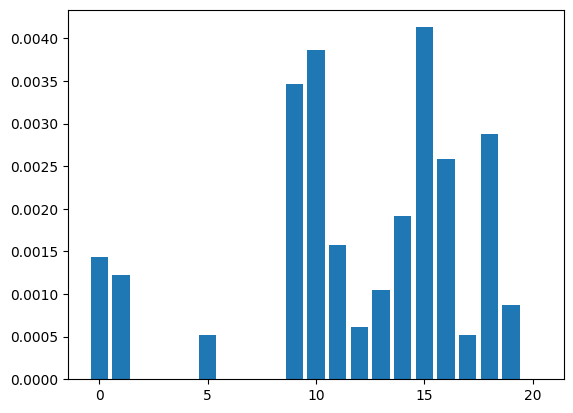
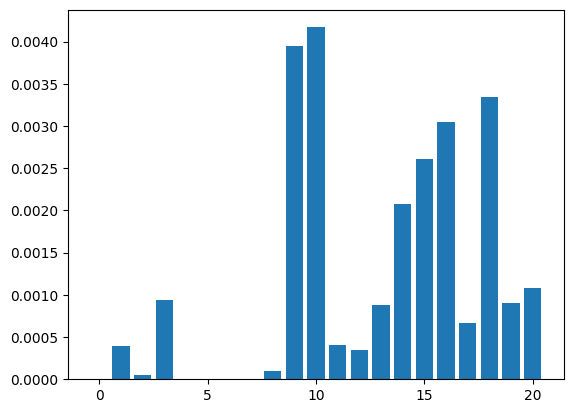
changed to small set

diff --git a/process-ultimate.py b/process-ultimate.py
@@ -44,14 +44,14 @@ print("Loading data...")
 raw_df = pd.read_csv("./data/raw_concatenated.csv")
 
 
-# Analyzing NA Distribution & Count NAs
-print("Analyzing NA values distribution...")
-na_chart = msno.matrix(raw_df)
-na_chart_copy = na_chart.get_figure()
-na_chart_copy.savefig('output/na_chart.png', bbox_inches = 'tight')
-plt.close()
-# print(raw_df.shape)
-# print(raw_df.isnull().sum())
+# # Analyzing NA Distribution & Count NAs
+# print("Analyzing NA values distribution...")
+# na_chart = msno.matrix(raw_df)
+# na_chart_copy = na_chart.get_figure()
+# na_chart_copy.savefig('output/na_chart.png', bbox_inches = 'tight')
+# plt.close()
+# # print(raw_df.shape)
+# # print(raw_df.isnull().sum())
 
 
 # Subsetting Columns
@@ -112,13 +112,13 @@ raw_df_full[string_col_list_1] = raw_df_full[string_col_list_1].astype(int)
 # raw_df_full[string_col_list_1] = raw_df_full[string_col_list_1].astype("category")
 
 
-# Analyzing Distribution of Class Labels
-print("Analyzing distribution of class labels...")
-#print(raw_df['covid19_test_results'].value_counts())
-test_histo = raw_df['covid19_test_results'].hist()
-test_histo_copy = test_histo.get_figure()
-test_histo_copy.savefig('output/test_histo.png', bbox_inches = 'tight')
-plt.close()
+# # Analyzing Distribution of Class Labels
+# print("Analyzing distribution of class labels...")
+# #print(raw_df['covid19_test_results'].value_counts())
+# test_histo = raw_df['covid19_test_results'].hist()
+# test_histo_copy = test_histo.get_figure()
+# test_histo_copy.savefig('output/test_histo.png', bbox_inches = 'tight')
+# plt.close()
 
 
 # Train/Validation Split
@@ -258,6 +258,15 @@ print("After NCR undersampling, the class distribution is:")
 print(counter)
 
 
+# make a small set
+train_temp = X_train_full_fs
+train_temp['target'] = y_train_full
+X_train_temp, X_validation_temp, y_train_temp, y_validation_temp = train_test_split(train_temp.drop(['target'], axis=1), 
+train_temp['target'], test_size=0.003, random_state=0, stratify=train_temp['target'])
+X_train_full_fs = X_validation_temp
+y_train_full = y_validation_temp
+
+
 # Random Search CV
 print("Random Search CV...")
 model = RandomForestClassifier(n_jobs=-1)
@@ -295,6 +304,8 @@ print('Best Hyperparameters: %s' % random_result.best_params_)
 # print('Parameters currently in use:\n')
 # pprint(rf.get_params())
 random_best_params = random_result.best_params_
+
+
 
 exit()
 
